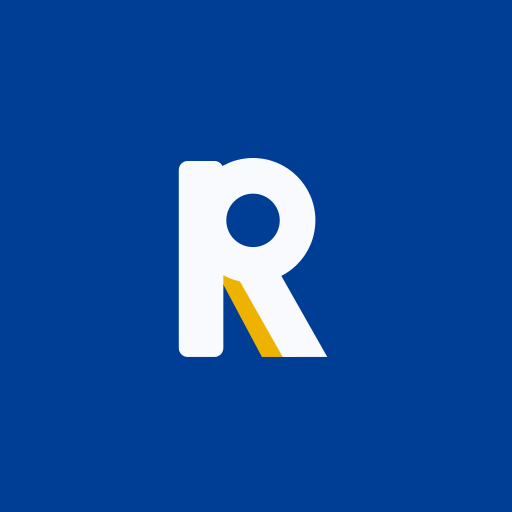
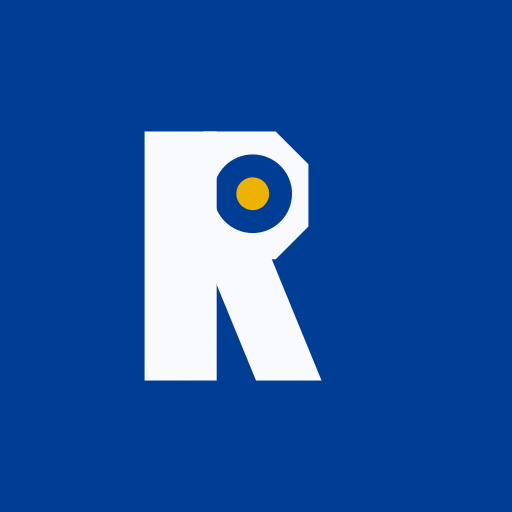
feat(brand): replace geometric R with the aperture-R mark
Swap the first-pass geometric "R-in-a-ring" logomark for the locked aperture-R:
a faceted R with a circular aperture counter and a Solar Amber pupil (the
"reveal" lens). Distinctive, on-concept, and legible down to 16px.

- Regenerated every master + raster from the new letterform: revealui-mark
  (+ mono), favicon.svg / .ico / .png, apple-touch, icon-maskable, the PWA
  icons, and the light/dark lockups (aperture-R + outlined Inter Tight
  "RevealUI" wordmark).
- Updated the RevealUIMark component to the aperture geometry; the `reveal`
  prop now renders the amber pupil instead of a leg stripe. The mono master
  drops the amber for a true single-colour mark.
- Re-copied the per-app favicons / apple-touch (admin, docs, marketing) and
  the admin header/footer revealui-logo.svg.

Verified: @revealui/presentation typecheck + biome clean; the mark, both
lockups, and the favicon at 16 / 32 / 180px were rendered and inspected.

The full faceted RevealUI Sans typeface is a separate follow-on track; the
wordmark here stays Inter Tight, paired with the custom mark.

Changed region(s): [[0.2812, 0.25, 0.6562, 0.75]]

diff --git a/packages/presentation/src/components/brand-mark.tsx b/packages/presentation/src/components/brand-mark.tsx
@@ -3,18 +3,19 @@ import type React from 'react';
 export interface RevealUIMarkProps {
   /** Sizing + colour utilities. The letterform inherits `currentColor`. */
   className?: string;
-  /** Render the Solar Amber "reveal" stripe on the leg. Default `true`. Set `false` for a single-colour mono mark (best at very small sizes). */
+  /** Render the Solar Amber aperture pupil. Default `true`. Set `false` for a single-colour mono mark (best at very small sizes). */
   reveal?: boolean;
   /** Accessible title. When omitted the mark is decorative (`aria-hidden`). */
   title?: string;
 }
 
 /**
- * The RevealUI logomark — a geometric "R" with a Solar Amber "reveal" stripe.
+ * The RevealUI logomark — a faceted "R" with a circular aperture counter and a
+ * Solar Amber pupil (the "reveal" lens).
  *
  * The letterform inherits `currentColor`, so it adopts the brand/text colour of
  * its context (`text-primary`, or `--tenant-brand-on` inside branded shells),
- * which keeps it legible on any surface. The amber stripe tracks the
+ * which keeps it legible on any surface. The amber pupil tracks the
  * `--rvui-accent` token. Canonical SVG masters (mark, mono, favicon tile, and
  * the outlined-Inter-Tight lockups) live in `src/assets/brand/`.
  */
@@ -34,17 +35,15 @@ export function RevealUIMark({
       aria-hidden={title ? undefined : true}
     >
       {title ? <title>{title}</title> : null}
-      {reveal ? (
-        <path d="M36 54 L48 54 L64 84 L52 84 Z" fill="var(--rvui-accent, #eeb300)" />
-      ) : null}
       <g fill="currentColor">
-        <rect x="24" y="18" width="15" height="66" rx="3" />
+        <path d="M16 12 H38 V88 H16 Z" />
         <path
           fillRule="evenodd"
-          d="M70 38 A21 21 0 1 1 28 38 A21 21 0 1 1 70 38 Z M58 38 A9 9 0 1 1 40 38 A9 9 0 1 1 58 38 Z"
+          d="M34 12 L56 12 L66 22 L66 41 L56 51 L34 51 Z M61 31 A12 12 0 1 1 37 31 A12 12 0 1 1 61 31 Z"
         />
-        <path d="M42 54 L57 54 L74 84 L59 84 Z" />
+        <path d="M34 49 L54 49 L70 88 L50 88 Z" />
       </g>
+      {reveal ? <circle cx="49" cy="31" r="5" fill="var(--rvui-accent, #eeb300)" /> : null}
     </svg>
   );
 }

diff --git a/packages/presentation/src/assets/brand/README.md b/packages/presentation/src/assets/brand/README.md
@@ -15,7 +15,7 @@ Every colour derives from the OKLCH design tokens in [`../../tokens.css`](../../
 
 ## Masters
 
-- `revealui-mark.svg` — full-colour logomark (cobalt R + amber "reveal" stripe).
+- `revealui-mark.svg` — full-colour logomark (faceted aperture R + amber pupil).
 - `revealui-mark-mono.svg` — single-colour mark (`currentColor`, no amber). In app
   code prefer the `RevealUIMark` React component from `@revealui/presentation`.
 - `favicon.svg` — browser / PWA / app tile (white R on a cobalt rounded square).
